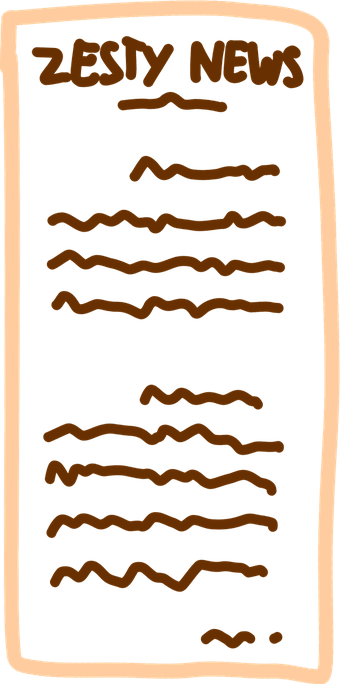
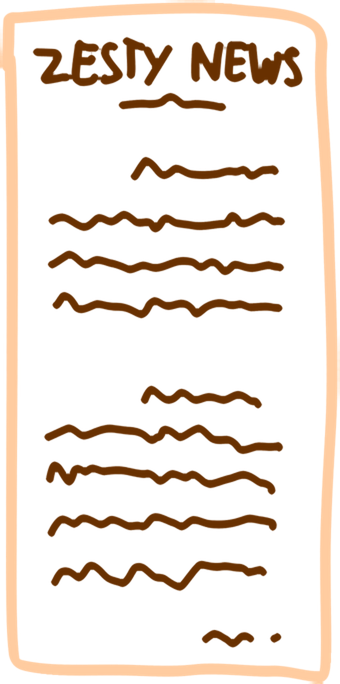
add a hand drawn border on boxes

diff --git a/css/main.css b/css/main.css
@@ -203,10 +203,48 @@ p.about {
   position: relative;
   overflow: hidden;
 }
-.box-1 { border: 4px solid #FEF7C5; }
-.box-2 { border: none; box-shadow: none; border-radius: 0; overflow: visible; } /* don't clip the halves when they move */
-.box-3 { border: 4px solid #ffeefc; }
-.box-4 { border: 4px solid #d4f3ff; }
+.box-1 { border: none; box-shadow: none; border-radius: 0; }
+.box-1::after {
+  content: "";
+  position: absolute;
+  inset: 0;
+  z-index: 2;
+  pointer-events: none;
+  background: url(../images/illustrations/box-yellow.png) center / 100% 100% no-repeat;
+}
+.flags-clip {
+  position: absolute;
+  inset: 0;
+  -webkit-mask: url(../images/illustrations/box-yellow-mask.png) center / 100% 100% no-repeat;
+  mask: url(../images/illustrations/box-yellow-mask.png) center / 100% 100% no-repeat;
+}
+.box-2 { border: none; box-shadow: none; border-radius: 0; overflow: visible; }
+.box-3 { border: none; box-shadow: none; border-radius: 0; }
+.box-3::after {
+  content: "";
+  position: absolute;
+  inset: 0;
+  z-index: 2;
+  pointer-events: none;
+  background: url(../images/illustrations/box-pink.png) center / 100% 100% no-repeat;
+}
+.box-3 .box-image {
+  -webkit-mask: url(../images/illustrations/box-pink-mask.png) center / 100% 100% no-repeat;
+  mask: url(../images/illustrations/box-pink-mask.png) center / 100% 100% no-repeat;
+}
+.box-4 { border: none; box-shadow: none; border-radius: 0; }
+.box-4::after {
+  content: "";
+  position: absolute;
+  inset: 0;
+  z-index: 2;
+  pointer-events: none;
+  background: url(../images/illustrations/box-blue.png) center / 100% 100% no-repeat;
+}
+.box-4 .box-image {
+  -webkit-mask: url(../images/illustrations/box-blue-mask.png) center / 100% 100% no-repeat;
+  mask: url(../images/illustrations/box-blue-mask.png) center / 100% 100% no-repeat;
+}
 .box-image {
   position: absolute;
   inset: 0;
@@ -321,7 +359,7 @@ p.about {
   content: "";
   position: absolute;
   inset: 0;
-  background: url(../images/illustrations/newspaper-torn.png) center / 100% 100% no-repeat;
+  background: url(../images/illustrations/newspaper-tear.png) center / 100% 100% no-repeat;
   opacity: 0;
   transition: opacity 0.3s ease;
 }

diff --git a/index.html b/index.html
@@ -60,10 +60,12 @@
     <div class="grid-container">
       <a href="pages/role.html" class="box box-1" style="grid-area: box-1">
         <span class="box-label">My Experience</span>
-        <span class="flag-wrap fw-top"><img src="images/hackclub/flag-orpheus-top.svg" alt="" /></span>
-        <span class="flag-wrap fw-left"><img src="images/hackclub/flag-orpheus-left.svg" alt="" /></span>
-        <span class="flag-wrap fw-right"><img class="flip" src="images/hackclub/flag-orpheus-left.svg" alt="" /></span>
-        <span class="flag-wrap fw-bottom"><img class="flip" src="images/hackclub/flag-orpheus-top.svg" alt="" /></span>
+        <span class="flags-clip">
+          <span class="flag-wrap fw-top"><img src="images/hackclub/flag-orpheus-top.svg" alt="" /></span>
+          <span class="flag-wrap fw-left"><img src="images/hackclub/flag-orpheus-left.svg" alt="" /></span>
+          <span class="flag-wrap fw-right"><img class="flip" src="images/hackclub/flag-orpheus-left.svg" alt="" /></span>
+          <span class="flag-wrap fw-bottom"><img class="flip" src="images/hackclub/flag-orpheus-top.svg" alt="" /></span>
+        </span>
       </a>
       <a href="pages/blog.html" class="box box-2" style="grid-area: box-2">
         <span class="box-label">My articles</span>
